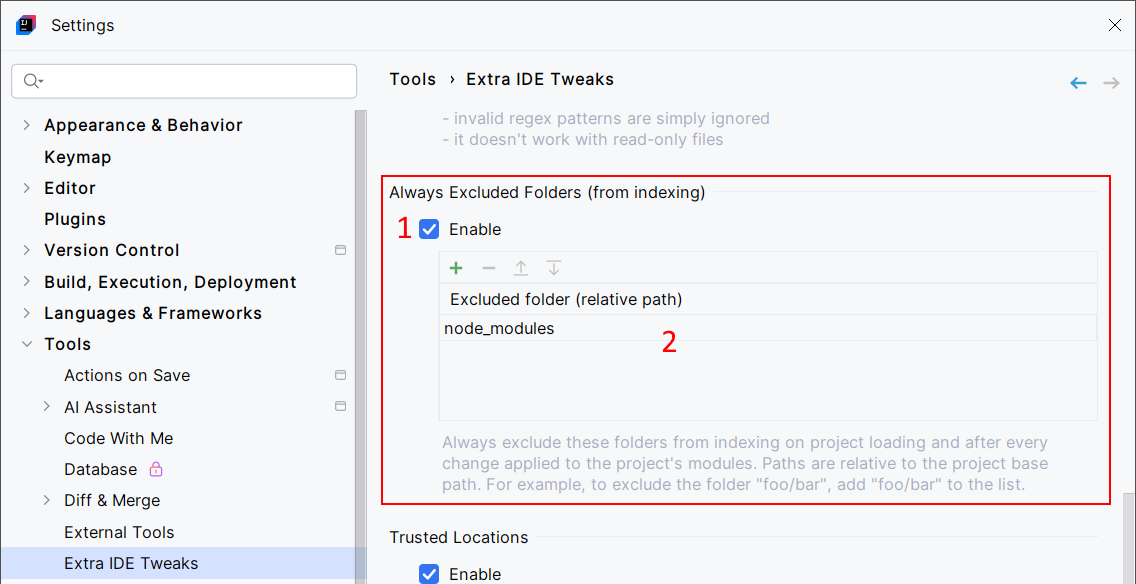
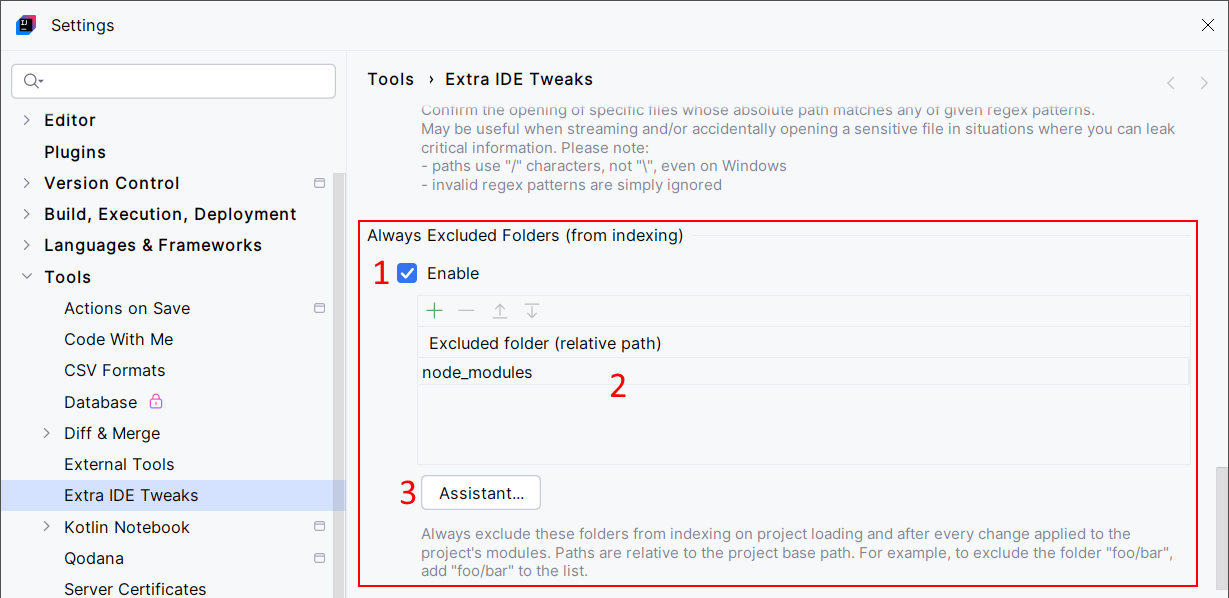
update doc for 2026 plugins

diff --git a/manual/topics/extra-ide-tweaks/Extra-IDE-Tweaks-Always-Excluded-Folders-From-Indexing.md b/manual/topics/extra-ide-tweaks/Extra-IDE-Tweaks-Always-Excluded-Folders-From-Indexing.md
@@ -10,13 +10,14 @@ Define default Excluded Folders (not per-project). There is now a global list of
 
 1. Enable the Always Excluded Folders feature.
 2. Add some folders to exclude from indexing (relative paths).
+3. Inspired by [GitHub issue #7](https://github.com/jonathanlermitage/intellij-extra-ide-tweaks/issues/7), the Assistant dialog can help you to handle complex scenarios like large Git monorepos. This tool lets you register multiple folders to exclude from indexing. It will allow you to select a folder path and a regular expression, then it will find all the subdirectories matching the regular expression, allowing you to add them to the Always Excluded Folders list. The Assistant dialog is optional.
 
 ## Usage
 
 The configured paths are automatically added to the excluded folders list on project loading, and to all opened projects when modifying settings.
 
 > Modifying the list of excluded folders can take too much time if you have many modules in your project (for example, IntelliJ Community sources contain 1300 modules), which would freeze the IDE.  
-> To prevent that, and starting with Extra IDE Tweaks 2025.1.1 (also included in Extra Tools Pack 2025.1.1), the Always Excluded Folders feature ignores projects with more than 20 modules. A future update of the plugin will improve this.
+> To prevent that, and starting with Extra IDE Tweaks 2025.1.15 (also included in Extra Tools Pack 2025.1.19), the Always Excluded Folders feature ignores projects with more than 100 modules.
 {style="warning"}
 
 In this example, the `node_modules` folder is automatically excluded, even if this folder doesn't exist yet.

diff --git a/manual/topics/Supported-IDEs.md b/manual/topics/Supported-IDEs.md
@@ -18,9 +18,9 @@ Most JetBrains IDEs are supported:
 
 {columns="1"}
 
-These IDEs are currently supported for versions from 2023.3 to their latest stable version.  
+These IDEs are currently supported for versions from 2025.1.4.1 to their latest stable version.  
 
-Android Studio is also supported from version Jellyfish | 2023.3.1.
+Android Studio is also supported from version Narwhal 4 | Feature Drop 2025.1.4.
 
 For Huawei DevEco Studio support, [click here](DevEco-Studio.md).
 
